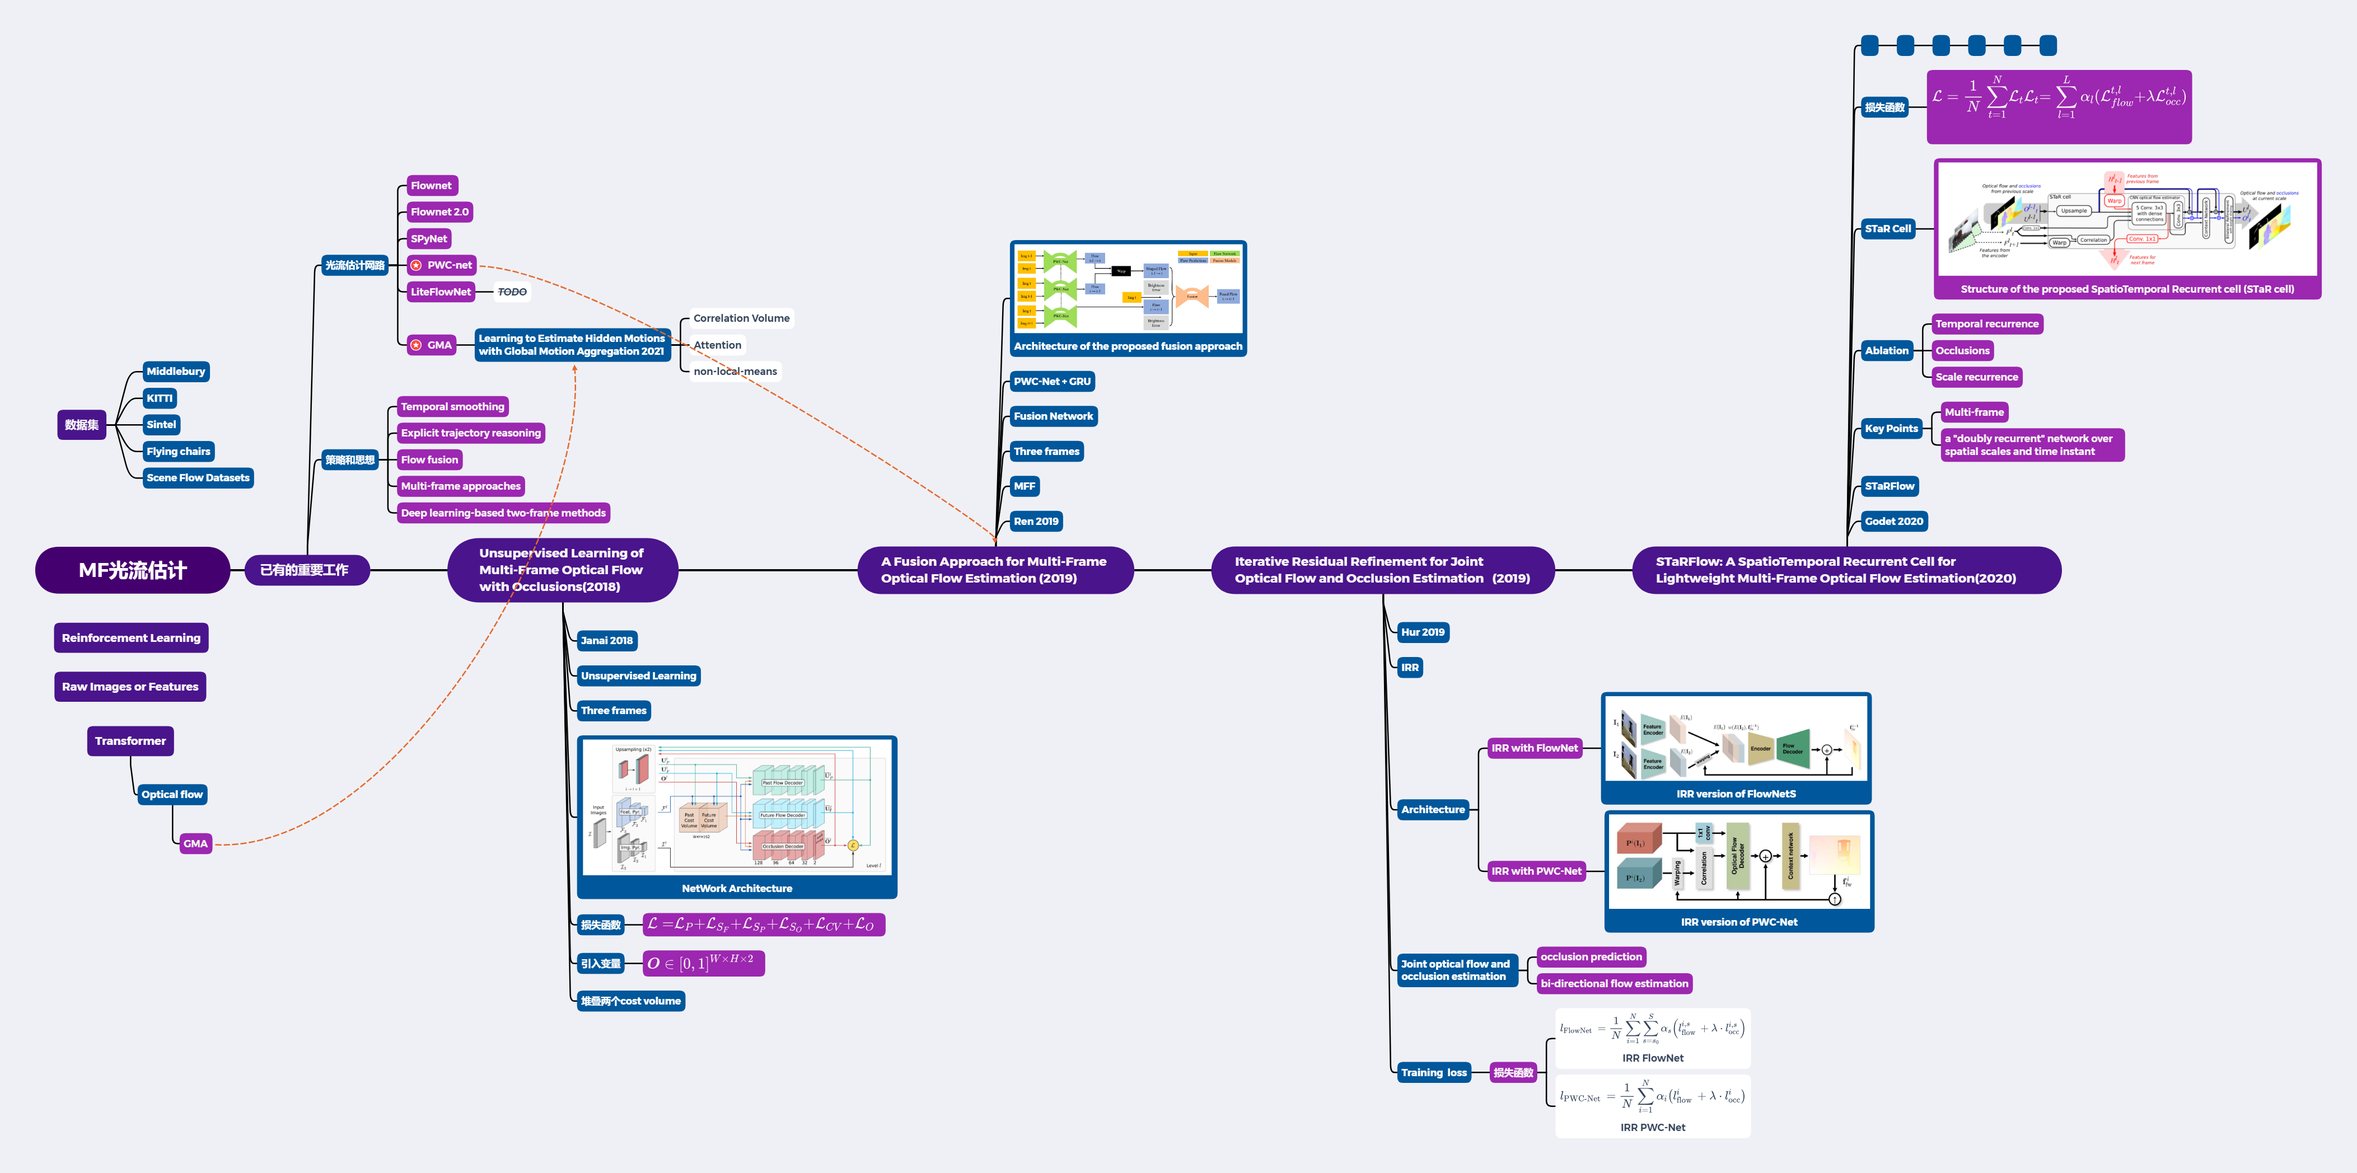
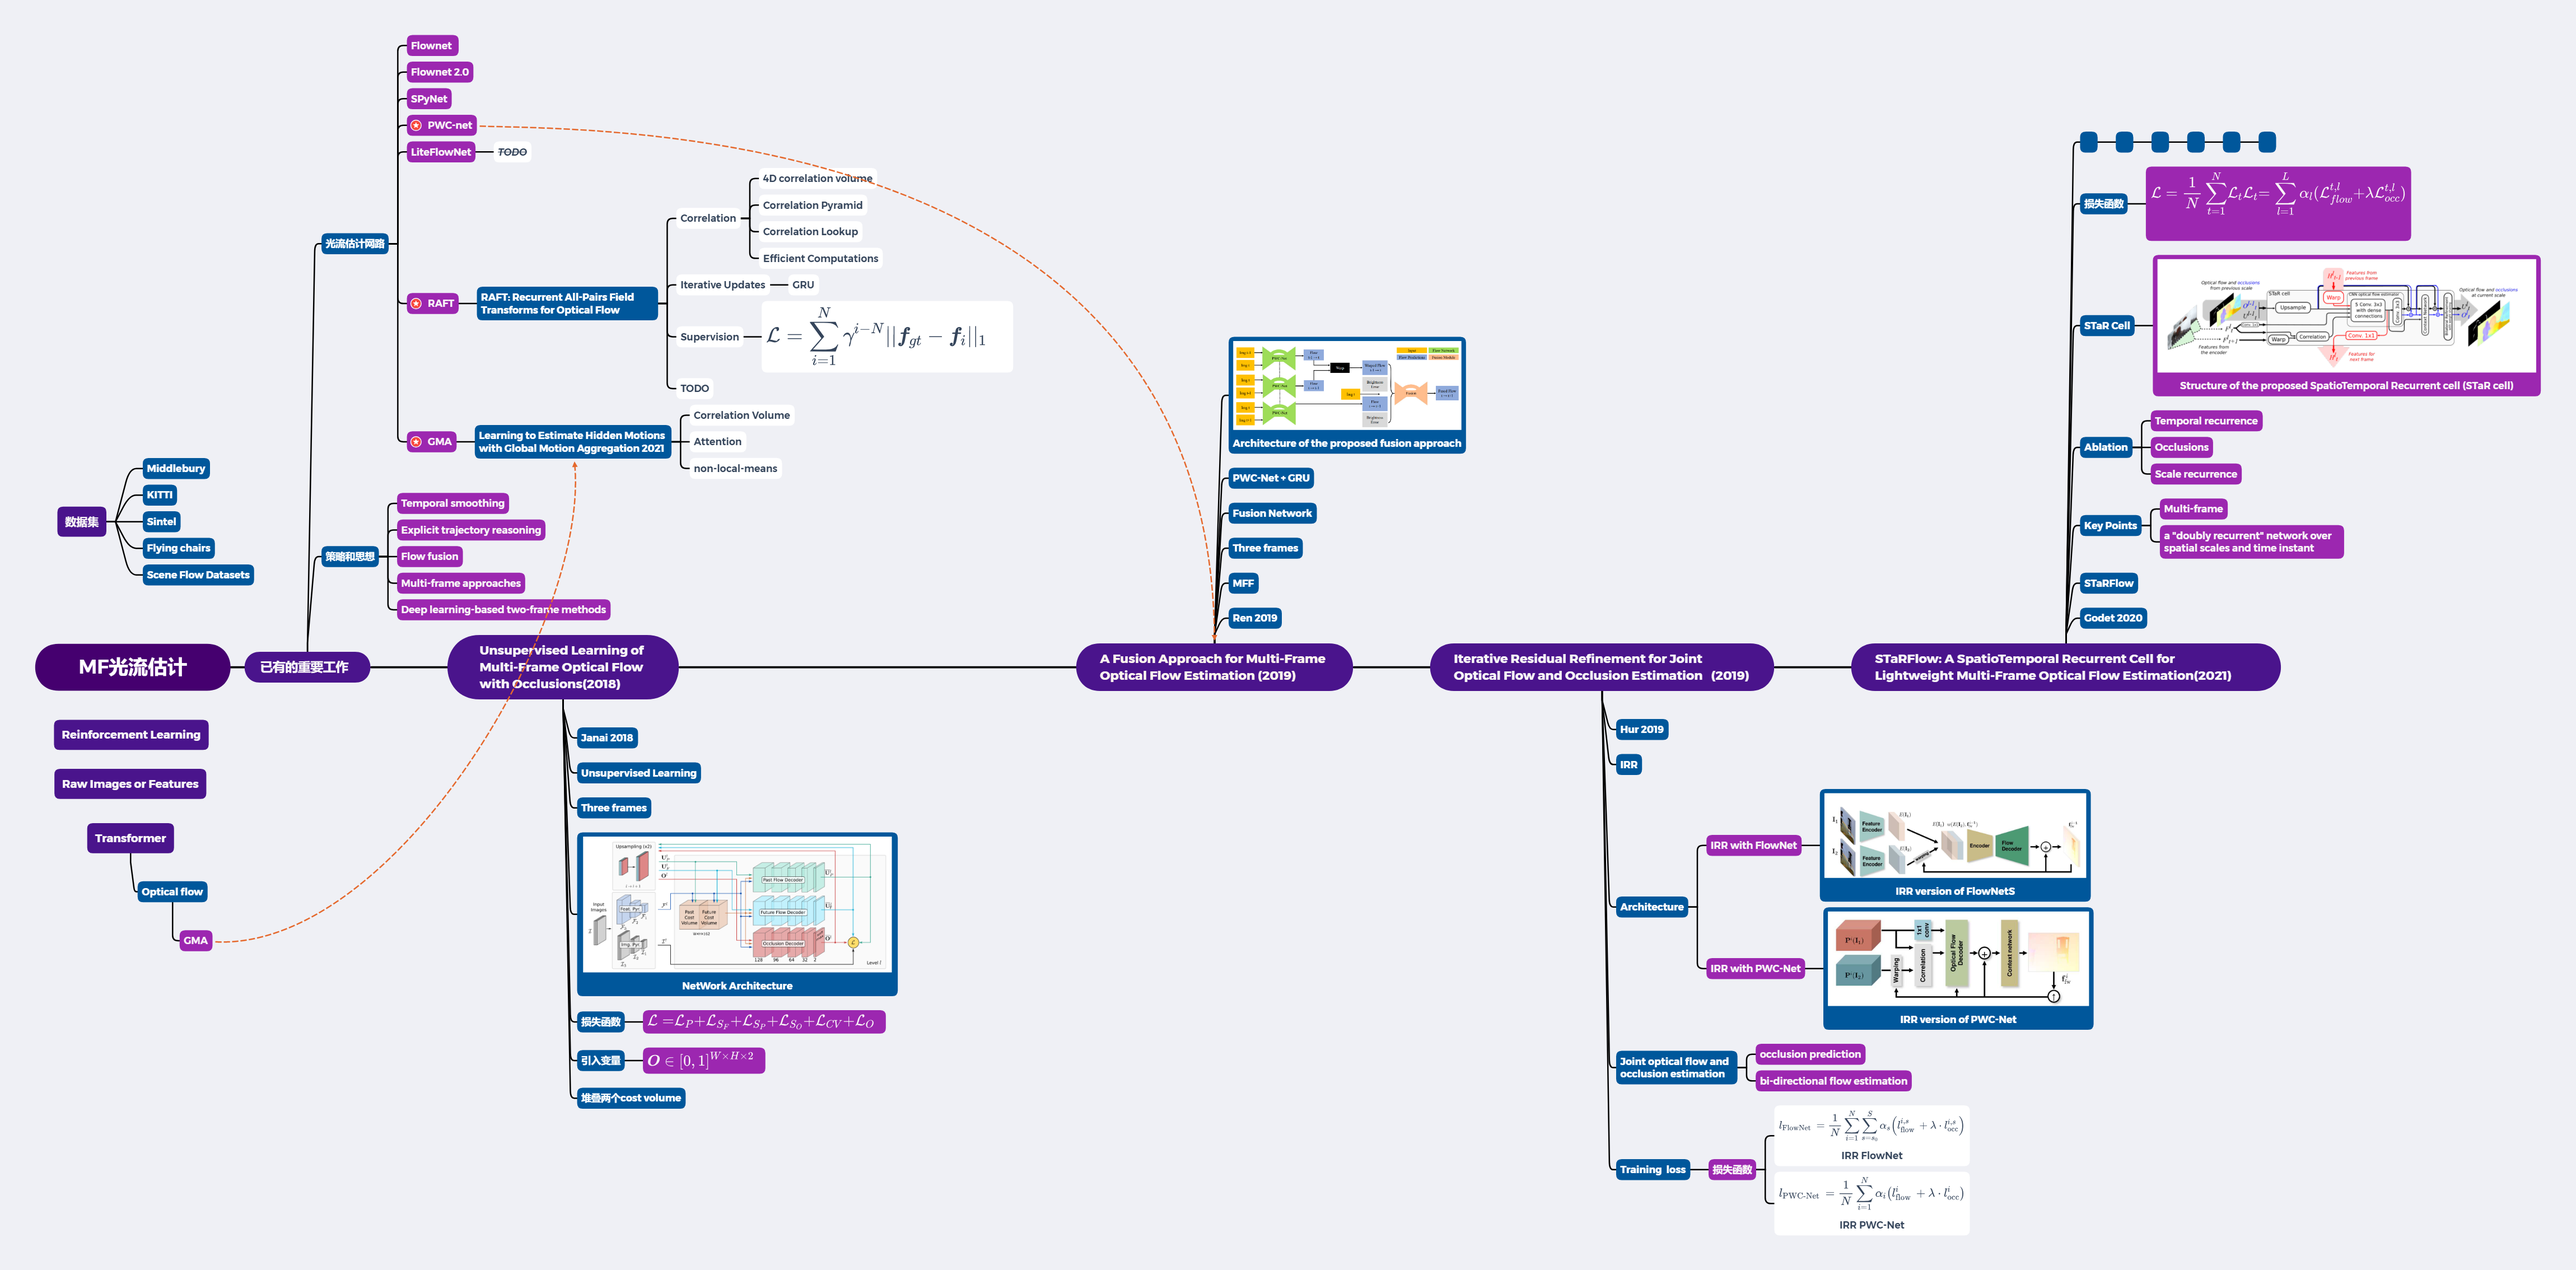
9.24 windows

Changed region(s): [[0.3423, 0.031, 0.9957, 0.9614], [0.0, 0.031, 0.4045, 0.8993], [0.28, 0.124, 0.3423, 0.2171]]

diff --git a/Summary/Multi-Frame-Optical-Flow.md b/Summary/Multi-Frame-Optical-Flow.md
@@ -1,14 +1,44 @@
-[toc]
-
 # Optical Flow
 
 ## Two-Frame Fashion
+
+### RAFT（ECCV 2020 best)
+
+**Paper: RAFT: Recurrent All-Pairs Field Transforms for Optical Flow**
+
+<img src = "./images/RAFT1.png" align="center" style="width:90%">
+
+[[笔记链接](./PapersNotes/RAFT(ECCV 2020 Best).md)]
 
 ### GMA(ICCV 2021)
 
 **Paper: Learning to Estimate Hidden Motions with Global Motion Aggregation**
 
 <img src = "./images/GMA1.png" align="center" style="width:90%">
+
+**Occlusions**:一个被遮挡的点是在参考帧中成像但不在下一帧中的一个点，同时包括移出帧的点。 以前的工作依赖于 CNN 来学习遮挡，或者需要多个帧来使用时间平滑来推理遮挡。 在本文中，通过对图像自相似性进行建模，可以在两帧情况下更好地解决遮挡问题。 引入了全局运动聚合模块，这是一种基于transformer的方法，用于查找第一张图像中像素之间的远程依赖关系，并对相应的运动特征执行全局聚合。 
+
+**Challenges: large motions, motion and defocus blur, featureless regions。**
+
+定义Occlusions的含义: 遮挡点被定义为在参考帧中成像但在匹配帧中不可见的 3D 点。 这个定义结合了几种不同的场景，例如查询点移动到框架外或在另一个对象（或自身）后面，或者另一个对象在主动意义上移动到查询点前面。 
+
+cost volume用于为像素的每个潜在位移提供匹配成本，然而，外观特征的相关性无法为学习遮挡区域的运动提供有意义的指导。 大多数现有方法在 MRF 中使用平滑度项来插值遮挡运动或使用 CNN 直接学习相邻关系，希望学习基于相邻像素估计遮挡运动。
+
+ 引入了全局运动聚合 (GMA) 模块，首先根据参考帧的自相似性计算注意力矩阵，然后使用该注意力矩阵来聚合运动特征。使用这些全局聚合的运动特征来增强成功的RAFT框架。
+
+**Occlusions in optical flow:** 违反亮度恒定性约束，对光流估计提出了关键挑战。 大多数传统的光流算法将遮挡视为异常值，因此开发和优化鲁棒的目标函数。 在光流的持续优化中，Brox 等人使用 L1 范数是因为它对由遮挡或大亮度变化引起的异常值具有鲁棒性。 扎克等人增加了全变分正则化并提出了一种有效的数值方案来优化能量泛函。 这个配方后来被 Wedel 等人改进。后来的工作引入了额外的鲁棒优化项，包括 Charbonnier 势 和 Lorentzian 势 。 
+
+最近，离散优化方法，特别是马尔可夫随机场（MRF)，已被用于估计光流。 这些算法首先使用鲁棒的截断数据项分别估计前向和后向流。 然后他们进行前向-后向一致性检查以确定被遮挡的区域。 最后，作为后处理步骤，他们使用插值方法来填充被遮挡区域的光流。 
+
+其他工作将遮挡估计作为联合目标与光流估计结合在一起。 阿尔瓦雷斯等人使用前向-后向一致性作为优化目标，从而估计时间对称的光流。 除了前向-后向一致性外，MirrorFlow在能量函数中结合了遮挡 - 遮挡对称性并实现了性能改进。 由于遮挡是由 3D 运动引起的，其他工作明确地将局部深度关系建模为层并解释遮挡。 
+
+本文没有使用显式遮挡推理来重载损失函数。 相反，采用了一种学习方法，类似于其他有监督的深度光流学习方法。目标不是明确地估计遮挡图，而是提高遮挡区域的光流精度。采用隐式方法来全局聚合运动特征，这提供了额外信息来正确预测遮挡区域的流量。与局部插值方法相反，该方法可以被认为是一种非局部插值方法。在深度学习中，遮挡问题已经在无监督学习设置中得到解决，然而，现有的监督学习方法都依赖于卷积来插入遮挡区域，这很容易导致更严重的闭塞失败。
+
+**Self-attention and Transformers:** 这是第一个使用注意力的思想来解决光流问题的工作。与 Transformer不同的是，本文中不使用 self-attention，自注意力是指来自相同特征的查询、键和值向量。 在这里的例子中，查询和关键向量来自对图像外观建模的上下文特征，而值向量来自运动特征，这是相关体(cost correlation volume)的编码。
+
+
+
+
 
 
 
@@ -134,4 +164,6 @@ $$
 $$
 \mathcal{L}_{O}=-\sum_{\mathbf{p} \in \Omega} \mathbf{O}^{(1)}(\mathbf{p}) \cdot \mathbf{O}^{(2)}(\mathbf{p})
 $$
+
+### STaRFlow（ICPR 2020）
 

diff --git a/Summary/PapersNotes/RAFT(ECCV 2020 Best).md b/Summary/PapersNotes/RAFT(ECCV 2020 Best).md
@@ -1,0 +1,72 @@
+### RAFT（ECCV 2020 best)
+
+**Paper: RAFT: Recurrent All-Pairs Field Transforms for Optical Flow**
+
+<img src = "C:\Users\陈勇虎\Desktop\Daily-Summary\Summary\images\RAFT1.png" align="center" style="width:90%">
+
+**简述**
+
+RAFT 提取每个像素的特征，为所有像素对构建多尺度 4D 相关体，并通过对相关体执行查找,并通过循环单元迭代更新流场。 
+
+**Challenges：fast-moving objects, occlusions, motion blur, and textureless surfaces.**
+
+数据项：相似图像区域对齐；正则项：运动合理性先验。
+
+RAFT: SOTA, strong generalization, high efficiency.
+
+RAFT三个主要部分:
+
+* 一个特征编码器，为每个像素提取一个特征向量
+
+* 一个相关层，为所有像素对产生 4D 相关体(4D correlation volume)，随后池化以产生较低分辨率的体积
+
+* 一个循环的基于 GRU 的更新算子(update operator)，它从相关体中检索值并迭代更新初始化为零的流场。 
+
+<img src = "C:\Users\陈勇虎\Desktop\Daily-Summary\Summary\images\RAFT1.png" align="center" style="width:100%">
+
+结构如上图所示，RAFT的3 个主要组件的详细描述：（1）从两个输入图像中提取每像素特征的特征编码器，以及仅从 $I_1$ 中提取特征的上下文编码器。 (2) 相关层，通过取所有特征向量对的内积构造一个4D的W × H × W × H 相关体。 4D 体积的最后 2 个维度在多个尺度上汇集以构建一组多尺度体积。 (3) 一个更新算子，它通过使用当前估计从相关体积集合中查找值来循环更新光流。 
+
+RAFT 架构受到传统的基于优化的方法的启发。 特征编码器提取每个像素的特征。 相关层计算像素之间的视觉相似度。 更新运算符模仿迭代优化算法的步骤。 但与传统方法不同，特征和运动先验是学习得到的——分别由特征编码器和更新算子学习。
+
+**相关工作(重要)，需要详读其中涉及的几篇论文。**
+
+* **Optical Flow vs Energy minimization**
+* **Direct Flow Prediction**
+* **Iterative Refinement**
+* **Learning to Optimize**
+
+**Approach**
+
+给定一对连续的RGB图像$I_1,I_2$，估计流($f^1,f^2$)可以映射到对应的坐标上:$(u^{\prime},v^{\prime})=(u+f^1(u),v+f^2(v))$。
+
+分为三个阶段:(1) 特征提取 (2) 计算视觉相似度 (3)迭代更新
+
+**特征提取**
+
+<img src = "C:\Users\陈勇虎\Desktop\Daily-Summary\Summary\images\RAFT2.png" align="center" style="width:50%">
+
+
+
+特征提取通过卷积网络实现，特征编码器对 $I_1$ 和 $I_2$ 使用并将其映射到较低的分辨率上。编码器 $g_\theta$ 将会生成 1/8 分辨率的特征图，即 $g_\theta:\mathbb{R}^{H\times W \times 3}\longmapsto \mathbb{R}^{H/8\times W/8\times D}$，这里 $D=256$ 。特征编码器由6个残差块组成，每降低 1/2 分辨率使用两个，最后将特征图的分辨率降至原图的 1/8。
+
+**计算视觉相似度**
+
+输入的图片特征$g_\theta(I_1)\in \mathbb{R}^{H\times W \times D}$ ，$g_\theta(I_2)\in \mathbb{R}^{H\times W \times D}$ ，correlation volume由特征矢量每一对的点积计算而来。即有:
+$$
+\boldsymbol{C}(g_\theta(I_1),g_\theta(I_2)) \in \mathbb{R}^{H\times W \times H \times W}，C_{i,j,k,l} = \sum_hg_\theta(I_1)_{ijh}\cdot g_\theta(I_2)_{klh}
+$$
+
+**Correlations Pyramid**
+
+
+
+
+
+
+
+
+
+
+
+
+

diff --git a/Clock-in/21-9-27.md b/Clock-in/21-9-27.md
@@ -1,0 +1,56 @@
+<img src = "https://img.shields.io/badge/Info%20%26%20Date-blueviolet" align="left">
+
+<font color=gray size=3>日期</font>: 2021年9月27日 星期一       <font color=gray size=3>姓名</font>:  陈勇虎   
+
+<img src = "https://img.shields.io/badge/-Plan-blueviolet" align="left">
+
+- [ ] 阅读论文《RAFT: Recurrent All-Pairs Field Transforms for Optical Flow.》[1]，学习RAFT模型
+
+<img src = "https://img.shields.io/badge/-Do-blueviolet" align="left">
+
+- [ ] 学习RAFT模型框架
+
+<img src = "https://img.shields.io/badge/-Check-blueviolet" align="left">
+
+- [ ] RAFT 提取每个像素的特征，为所有像素对构建多尺度 4D 相关体，并通过对相关体执行查找,并通过循环单元迭代更新流场。 
+
+  **Challenges：fast-moving objects, occlusions, motion blur, and textureless surfaces.**
+
+  数据项：相似图像区域对齐；正则项：运动合理性先验。
+
+  RAFT: SOTA, strong generalization, high efficiency.
+
+  RAFT三个主要部分:
+
+  * 一个特征编码器，为每个像素提取一个特征向量
+
+  * 一个相关层，为所有像素对产生 4D 相关体(4D correlation volume)，随后池化以产生较低分辨率的体积
+
+  * 一个循环的基于 GRU 的更新算子(update operator)，它从相关体中检索值并迭代更新初始化为零的流场。 
+
+  <img src = "./../Summary/images/RAFT1.png" align="center" style="width:100%">
+
+  结构如上图所示，RAFT的3 个主要组件的详细描述：（1）从两个输入图像中提取每像素特征的特征编码器，以及仅从 $I_1$ 中提取特征的上下文编码器。 (2) 相关层，通过取所有特征向量对的内积构造一个4D的W × H × W × H 相关体。 4D 体积的最后 2 个维度在多个尺度上汇集以构建一组多尺度体积。 (3) 一个更新算子，它通过使用当前估计从相关体积集合中查找值来循环更新光流。 
+
+  RAFT 架构受到传统的基于优化的方法的启发。 特征编码器提取每个像素的特征。 相关层计算像素之间的视觉相似度。 更新运算符模仿迭代优化算法的步骤。 但与传统方法不同，特征和运动先验是学习得到的——分别由特征编码器和更新算子学习。
+
+<img src = "https://img.shields.io/badge/-Action-blueviolet" align="left">
+
+- [ ] 继续调研光流法动态感知领域的应用算法和光流估计算法
+
+- [ ] 阅读和学习论文源码
+
+- [ ] 调研和收集Transformer的应用
+
+<img src = "https://img.shields.io/badge/-Reference-blueviolet" align = "left">
+
+1. Teed, Zachary, and Jia Deng. 2020. “RAFT: Recurrent All-Pairs Field Transforms for Optical Flow.” In *Computer Vision – ECCV 2020*, edited by Andrea Vedaldi, Horst Bischof, Thomas Brox, and Jan-Michael Frahm, 12347:402–19. Lecture Notes in Computer Science. Cham: Springer International Publishing. https://doi.org/10.1007/978-3-030-58536-5_24.
+
+
+
+
+
+
+
+
+

diff --git a/Clock-in/21-9-26.md b/Clock-in/21-9-26.md
@@ -1,0 +1,62 @@
+<img src = "https://img.shields.io/badge/Info%20%26%20Date-blueviolet" align="left">
+
+<font color=gray size=3>日期</font>: 2021年9月26日 星期日        <font color=gray size=3>姓名</font>:  陈勇虎   
+
+<img src = "https://img.shields.io/badge/-Plan-blueviolet" align="left">
+
+- [ ] 学习了解warping的实现原理
+
+<img src = "https://img.shields.io/badge/-Do-blueviolet" align="left">
+
+- [ ] warp的实现原理，具体见代码注释
+
+  ```python
+  def warp(x, flo):
+          B, C, H, W = x.size()
+          # mesh grid, size = [B, 2, H, W]
+          xx = torch.arange(0, W).view(1,-1).repeat(H,1)
+          yy = torch.arange(0, H).view(-1,1).repeat(1,W)
+          xx = xx.view(1,1,H,W).repeat(B,1,1,1)
+          yy = yy.view(1,1,H,W).repeat(B,1,1,1)
+          grid = torch.cat((xx,yy),1).float()
+          # to cuda
+          x = x.cuda()
+          grid = grid.cuda()
+          vgrid = Variable(grid) + flo # B,2,H,W
+          #图二的每个像素坐标加上它的光流即为该像素点对应在图一的坐标
+   # scale grid to [-1,1] 
+          vgrid[:,0,:,:] = 2.0*vgrid[:,0,:,:].clone()/max(W-1,1)-1.0 
+          #取出光流v这个维度，原来范围是0~W-1，再除以W-1，范围是0~1，再乘以2，范围是0~2，再-1，范围是-1~1
+          vgrid[:,1,:,:] = 2.0*vgrid[:,1,:,:].clone()/max(H-1,1)-1.0 #取出光流u这个维度，同上
+          vgrid = vgrid.permute(0,2,3,1)#from B,2,H,W -> B,H,W,2，配合grid_sample这个函数的使用
+          # 常用的就是双线性插值和最近邻插值，大部分都使用双线性插值
+          output = nn.functional.grid_sample(x, vgrid,align_corners=True)
+          mask = torch.autograd.Variable(torch.ones(x.size())).cuda()
+          mask = nn.functional.grid_sample(mask, vgrid,align_corners=True)
+          mask[mask<0.9999] = 0
+          mask[mask>0] = 1
+   return output * mask
+  ```
+
+<img src = "https://img.shields.io/badge/-Check-blueviolet" align="left">
+
+- [ ] 学习了解warping的实现原理
+
+<img src = "https://img.shields.io/badge/-Action-blueviolet" align="left">
+
+- [ ] 继续调研光流法动态感知领域的应用算法和光流估计算法
+
+- [ ] 阅读和学习论文源码
+
+- [ ] 调研和收集Transformer的应用
+
+
+
+
+
+
+
+
+
+
+
